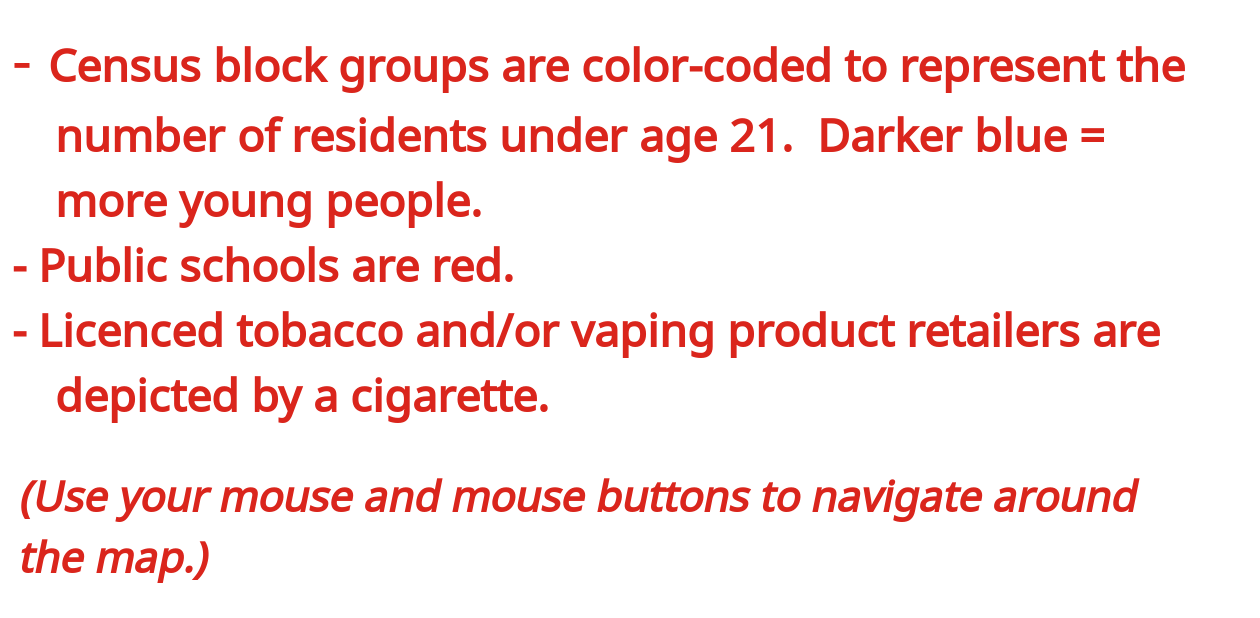
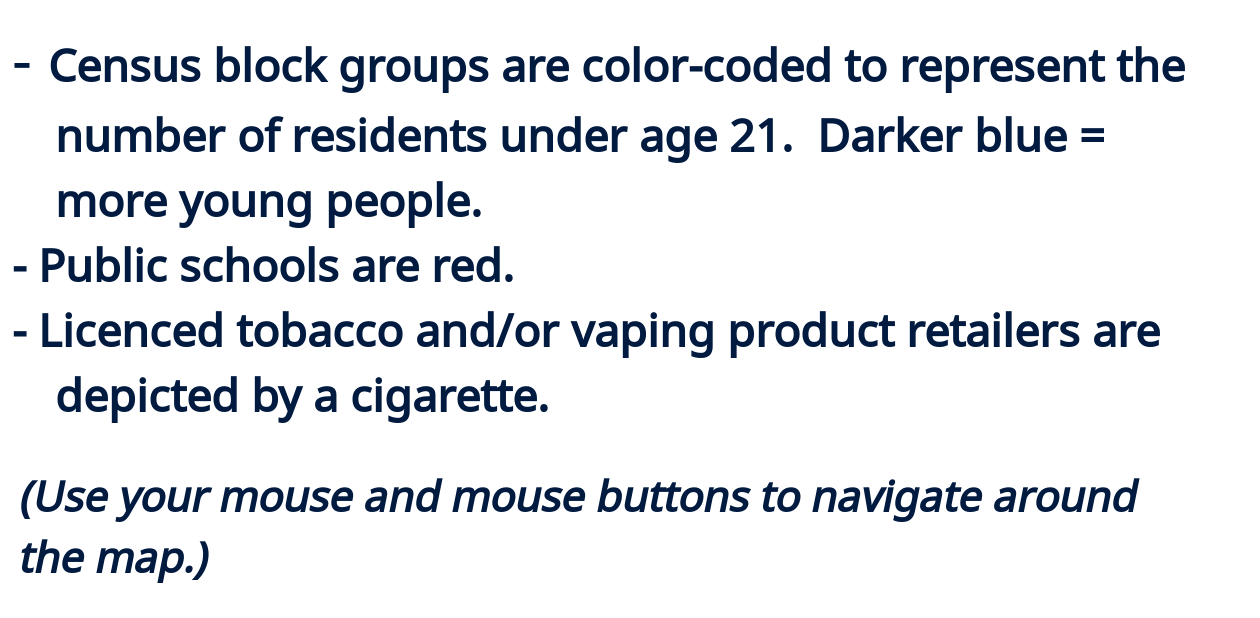
new2

diff --git a/index.html b/index.html
@@ -16,7 +16,7 @@
     top: 90px;          /* Distance from top */
     left: 30px;         /* Distance from left */
     z-index: 1001;      /* Ensures it stays above the map */
-    background: rgba(255, 255, 255, 0.6); /* White with 80% transparency */
+    background: rgba(255, 255, 255, 0.8); /* White with 80% transparency */
     padding: 10px;
     border: 1px solid #ccc;
     border-radius: 5px;

diff --git a/index_UPDATED.html b/index_UPDATED.html
@@ -16,7 +16,7 @@
     top: 90px;          /* Distance from top */
     left: 30px;         /* Distance from left */
     z-index: 1001;      /* Ensures it stays above the map */
-    background: rgba(255, 255, 255, 0.6); /* White with 80% transparency */
+    background: rgba(255, 255, 255, 0.8); /* White with 80% transparency */
     padding: 10px;
     border: 1px solid #ccc;
     border-radius: 5px;
